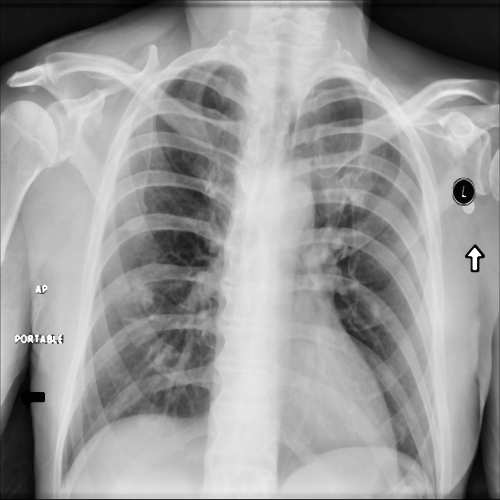
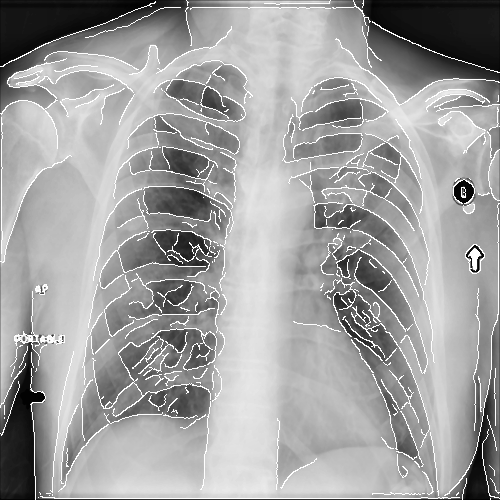
rerun for display reasons

diff --git a/Preprocessing/preprocessing.py b/Preprocessing/preprocessing.py
@@ -213,10 +213,11 @@ def preprocess_filepaths_threaded(filepaths, output_dir, num_threads=NUM_THREADS
                 filepath, output_size, process_types=process_types
             )
             
-            # Convert multi-channel to grayscale by averaging channels
+            # Convert multi-channel to grayscale by combining channels
             if len(processed_image.shape) == 3 and processed_image.shape[2] > 1:
-                # Merge channels by taking the mean across channels
-                grayscale_image = np.mean(processed_image, axis=2).astype(np.uint8)
+                # Use max to overlay edges onto the base image
+                # This preserves the enhanced image while drawing edges on top
+                grayscale_image = np.max(processed_image, axis=2).astype(np.uint8)
             elif len(processed_image.shape) == 3:
                 # Single channel stored as 3D array
                 grayscale_image = processed_image[:, :, 0]
@@ -250,11 +251,11 @@ if __name__ == "__main__":
     preprocess_batch(
         INPUT_DIRECTORY,
         OUTPUT_DIRECTORY,
-        process_types=['standard']
+        process_types=['standard', 'edges']
     )
 
     # Uncomment to test single image processing with process visualization
-    # preprocess_xray('images/00000001_000.png', show_process=True)
+    preprocess_xray('images/00000001_000.png', show_process=True, process_types=['standard', 'edges'])
 
     # Load and display processed grayscale image
     # img = cv2.imread('preprocessed/processed_00000001_000.png', cv2.IMREAD_GRAYSCALE)
